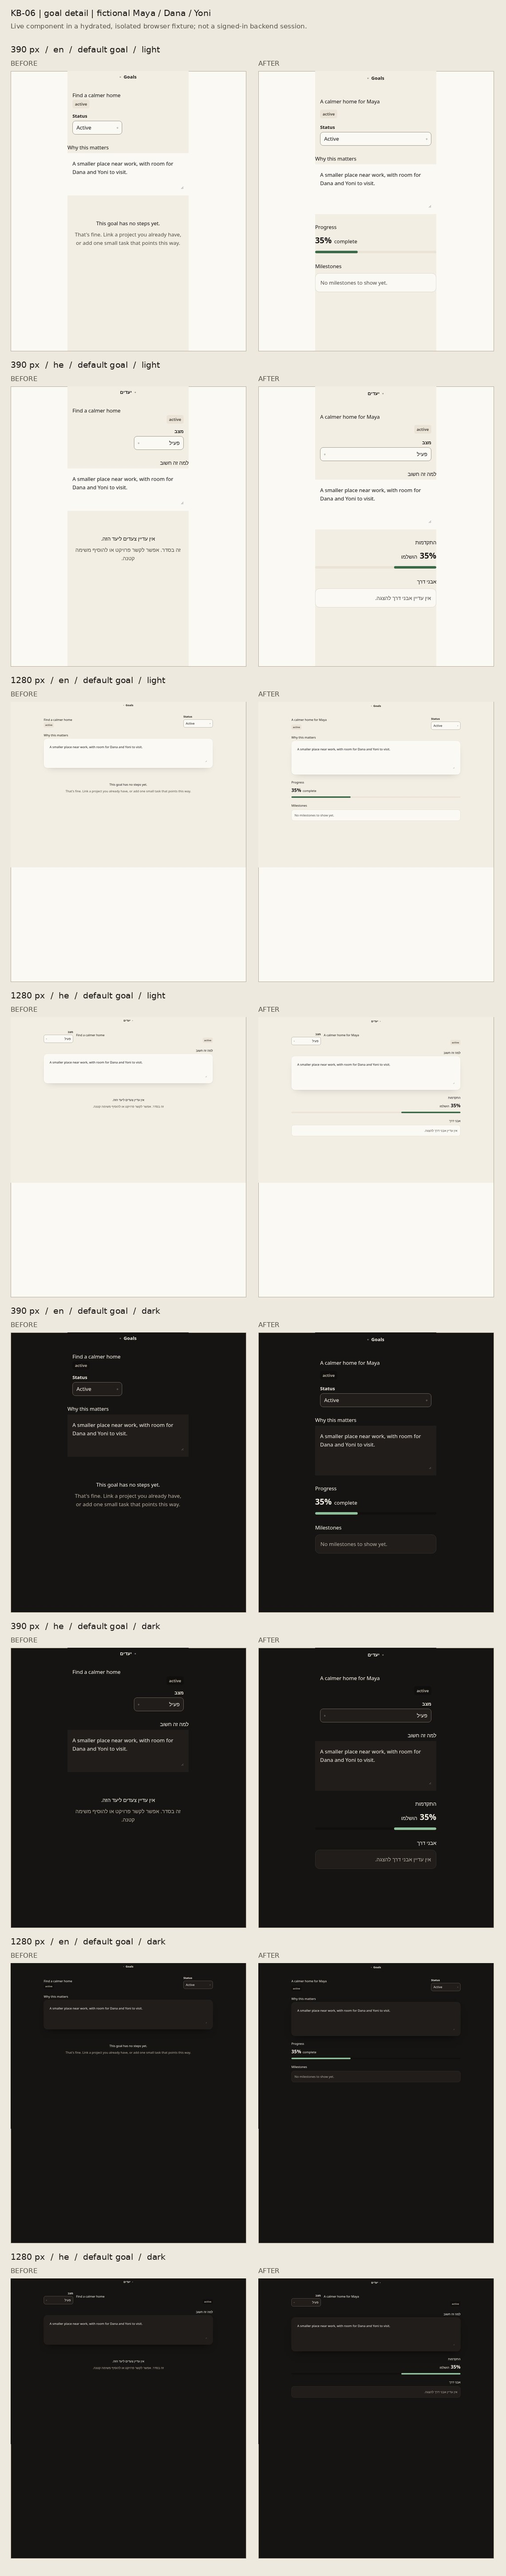
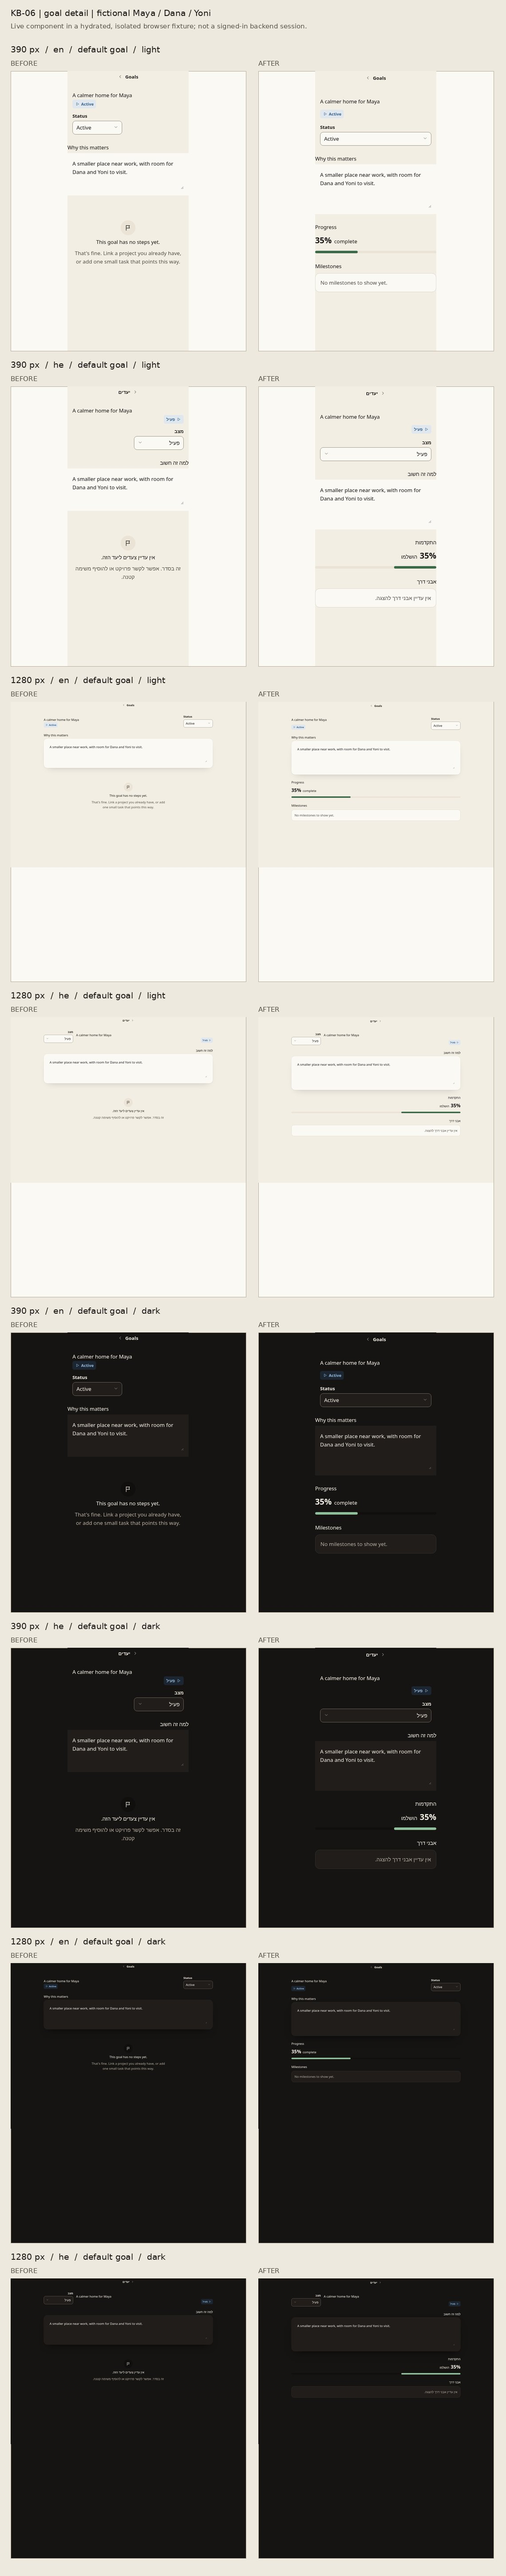
test(kb-06): exercise production status mapping in visual fixture

Changed region(s): [[0.1842, 0.5617, 0.3377, 0.5929], [0.6447, 0.5305, 0.6754, 0.5617], [0.2456, 0.6866, 0.2763, 0.7178]]

diff --git a/tests/unit/kb-06.test.tsx b/tests/unit/kb-06.test.tsx
@@ -14,23 +14,21 @@ let origin: string;
 let temp: string;
 
 const stubs: Record<string, string> = {
-  "convex/react": `export const useQuery=()=>{const state=new URLSearchParams(location.search).get("scenario");if(state==="loading")return undefined;if(state==="missing")return [];return [{_id:"fictional-goal",title:state==="long"?"A calm home with a thoughtful place for every book and every visit from Dana and Yoni, without rushing into a decision":"A calmer home for Maya",description:state==="long"?"A smaller place close to work where evenings feel calm, guests can stay, books have room, and the choice has time to feel right.":"A smaller place near work, with room for Dana and Yoni to visit.",progressPercent:35,status:"active",createdAt:1,updatedAt:1}]};export const useMutation=()=>async patch=>{window.__kbCalls.push(patch);return null};`,
+  "convex/react": `export const useConvexAuth=()=>({isAuthenticated:true,isLoading:false});export const useQuery=ref=>{if(ref?.__kb==="profile")return {_id:"fictional-user"};const state=new URLSearchParams(location.search).get("scenario");if(state==="loading")return undefined;if(state==="missing")return [];return [{_id:"fictional-goal",title:state==="long"?"A calm home with a thoughtful place for every book and every visit from Dana and Yoni, without rushing into a decision":"A calmer home for Maya",description:state==="long"?"A smaller place close to work where evenings feel calm, guests can stay, books have room, and the choice has time to feel right.":"A smaller place near work, with room for Dana and Yoni to visit.",progressPercent:35,status:"active",createdAt:1,updatedAt:1}]};export const useMutation=()=>async patch=>{window.__kbCalls.push(patch);return null};`,
   "next/link": `import React from "${web}/node_modules/react";export default function Link({href,children,...rest}){return React.createElement("a",{href,...rest},children)}`,
-  "@/components/providers/LocaleProvider": `export function useLocale(){const he=document.documentElement.lang==="he";const en={"gd.back":"Goals","gd.titleLabel":"Goal title","gd.status":"Status","gd.why.h":"Why this matters","gl.status.active":"Active","gl.status.completed":"Completed","gl.status.archived":"Archived","gl.draftwhy":"Why this matters","gx.saveError":"Couldn't save"};const tr={"gd.back":"יעדים","gd.titleLabel":"שם היעד","gd.status":"מצב","gd.why.h":"למה זה חשוב","gl.status.active":"פעיל","gl.status.completed":"הושלם","gl.status.archived":"בארכיון","gl.draftwhy":"למה זה חשוב","gx.saveError":"לא נשמר"};return{lang:he?"he":"en",dir:he?"rtl":"ltr",t:k=>(he?tr:en)[k]??k}}`,
-  "@/components/tempo/TpIcon": `import React from "${web}/node_modules/react";export function TpIcon(){return React.createElement("span",{"aria-hidden":true},"◦")}`,
-  "@/convex/_generated/api": `export const api={goals:{list:{},update:{}}};`,
-  "@/lib/goals-projects": `export const GOAL_STATUSES=["active","completed","archived"];export const goalStatus=s=>s;export const storedGoalStatus=s=>s;`,
-  "./shared": `import React from "${web}/node_modules/react";export const useOnline=()=>new URLSearchParams(location.search).get("scenario")!=="offline";export const useSignedIn=()=>"ready";export const ScreenBoundary=({children})=>children;export const SignedOutState=()=>React.createElement("p",{},"Signed out");export const StatusBadge=({status})=>React.createElement("span",{className:"tp-status"},status);`,
+  "@/components/providers/LocaleProvider": `export function useLocale(){const he=document.documentElement.lang==="he";const en={"gd.back":"Goals","gd.titleLabel":"Goal title","gd.status":"Status","gd.why.h":"Why this matters","gl.status.active":"Active","gl.status.resting":"Resting","gl.status.done":"Done","gl.draftwhy":"Why this matters","gx.saveError":"Couldn't save"};const tr={"gd.back":"יעדים","gd.titleLabel":"שם היעד","gd.status":"מצב","gd.why.h":"למה זה חשוב","gl.status.active":"פעיל","gl.status.resting":"במנוחה","gl.status.done":"הושלם","gl.draftwhy":"למה זה חשוב","gx.saveError":"לא נשמר"};return{lang:he?"he":"en",dir:he?"rtl":"ltr",t:k=>(he?tr:en)[k]??k}}`,
+  "@/convex/_generated/api": `export const api={users:{getProfile:{__kb:"profile"}},goals:{list:{__kb:"goals"},update:{}}};`,
+  "./shared": `export{StatusBadge,ScreenBoundary,SignedOutState}from"${web}/components/goals/shared.tsx";export const useOnline=()=>new URLSearchParams(location.search).get("scenario")!=="offline";export const useSignedIn=()=>"ready";`,
 };
 
 async function makeFixture() {
   temp = mkdtempSync(join(tmpdir(), "tempo-kb06-work-"));
   symlinkSync(join(web, "node_modules"), join(temp, "node_modules"), "dir");
-  writeFileSync(join(temp, "entry.tsx"), `import React from "${web}/node_modules/react";import{createRoot}from"${web}/node_modules/react-dom/client";import{GoalDetailScreen,Kb06Gallery}from"${component}";window.__kbCalls=[];const gallery=new URLSearchParams(location.search).has("gallery");createRoot(document.getElementById("root")!).render(gallery?<Kb06Gallery/>:<main><GoalDetailScreen goalId="fictional-goal"/></main>);`);
+  writeFileSync(join(temp, "entry.tsx"), `import React from "${web}/node_modules/react";import{createRoot}from"${web}/node_modules/react-dom/client";import{TpIconSprite}from"${web}/components/tempo/TpIcon.tsx";import{GoalDetailScreen,Kb06Gallery}from"${component}";window.__kbCalls=[];const gallery=new URLSearchParams(location.search).has("gallery");createRoot(document.getElementById("root")!).render(<><TpIconSprite/>{gallery?<Kb06Gallery/>:<main><GoalDetailScreen goalId="fictional-goal"/></main>}</>);`);
   const result = await Bun.build({
-    entrypoints: [join(temp, "entry.tsx")], outdir: temp, target: "browser",
+    entrypoints: [join(temp, "entry.tsx")], outdir: temp, target: "browser", define: { "process.env.NEXT_PUBLIC_TEMPO_E2E_AUTH_BYPASS": '"0"' },
     plugins: [{ name: "kb06-fictional-data", setup(build) {
-      build.onResolve({ filter: /^(convex\/react|next\/link|@\/components\/providers\/LocaleProvider|@\/components\/tempo\/TpIcon|@\/convex\/_generated\/api|@\/lib\/goals-projects|\.\/shared)$/ }, args => ({ path: args.path, namespace: "kb06" }));
+      build.onResolve({ filter: /^(convex\/react|next\/link|@\/components\/providers\/LocaleProvider|@\/convex\/_generated\/api|\.\/shared)$/ }, args => ({ path: args.path, namespace: "kb06" }));
       build.onLoad({ filter: /.*/, namespace: "kb06" }, args => ({ contents: stubs[args.path], loader: "tsx", resolveDir: web }));
     } }],
   });
@@ -128,7 +126,7 @@ describe.serial("KB-06 mounted goal detail and gallery", () => {
   }, 60_000);
   test("status selection keeps the existing status payload", async () => {
     const page = await open();
-    await page.locator("#gd-status").selectOption("completed");
+    await page.locator("#gd-status").selectOption("done");
     await page.waitForFunction(() => window.__kbCalls.length === 1);
     expect(await page.evaluate(() => window.__kbCalls[0])).toEqual({ goalId: "fictional-goal", status: "completed" });
     await page.close();

diff --git a/docs/polish/evidence/kb-06-goal-details-show-milestones-without-crowding.md b/docs/polish/evidence/kb-06-goal-details-show-milestones-without-crowding.md
@@ -1,6 +1,6 @@
 # KB-06 goal detail evidence
 
-Source commit: `8897308` (`t/1143-kb-06`). The [contact sheet](kb-06-goal-details-show-milestones-without-crowding.jpg) compares the checked-in `GoalDetailScreen` before and after this change at 390 and 1280 px, English and Hebrew, light and dark. Every screenshot uses the actual mounted component in an isolated hydrated browser fixture with fictional Maya, Dana and Yoni data. Convex reads and writes and locale context are stubbed; no real account or backend is exercised. Labels appear only on this evidence sheet.
+Source commit: `8897308` (`t/1143-kb-06`). The [contact sheet](kb-06-goal-details-show-milestones-without-crowding.jpg) compares the checked-in `GoalDetailScreen` before and after this change at 390 and 1280 px, English and Hebrew, light and dark. Every screenshot mounts the actual component in an isolated hydrated browser fixture with fictional Maya, Dana and Yoni data. The pure goal status mapping, `StatusBadge`, `TpIcon` and `TpIconSprite` are production modules; Convex reads and writes, locale context, and the Next link are fixture stubs. The standalone CSS fixture uses local font fallback. No real account or backend is exercised. Labels appear only on this evidence sheet.
 
 The original screen showed title, status and the editable “why”, then an empty state for steps. The changed screen keeps those controls and adds the stored progress value with a labelled bar and a plain milestone-empty message. At 390 px the status control fills the available width and tested title/select targets reach 44 px. Long goal text and large text mode have no horizontal overflow. Hebrew follows RTL page direction while user text keeps `dir="auto"`. Light and dark views share the v3 tokens. Both states contain one `main` and one `h1` in the isolated mounted fixture.
 
@@ -14,7 +14,7 @@ New regression cases in `tests/unit/kb-06.test.tsx`:
 4. long goal text wraps without horizontal overflow
 5. keyboard title save keeps the existing update payload
 6. why blur keeps the existing description payload
-7. status selection keeps the existing status payload
+7. status selection maps the real `done` display state to the existing `completed` status payload
 8. Hebrew layout is RTL and user text keeps auto direction
 9. large text remains readable at phone width
 10. real progress is labelled and empty milestones are honest
